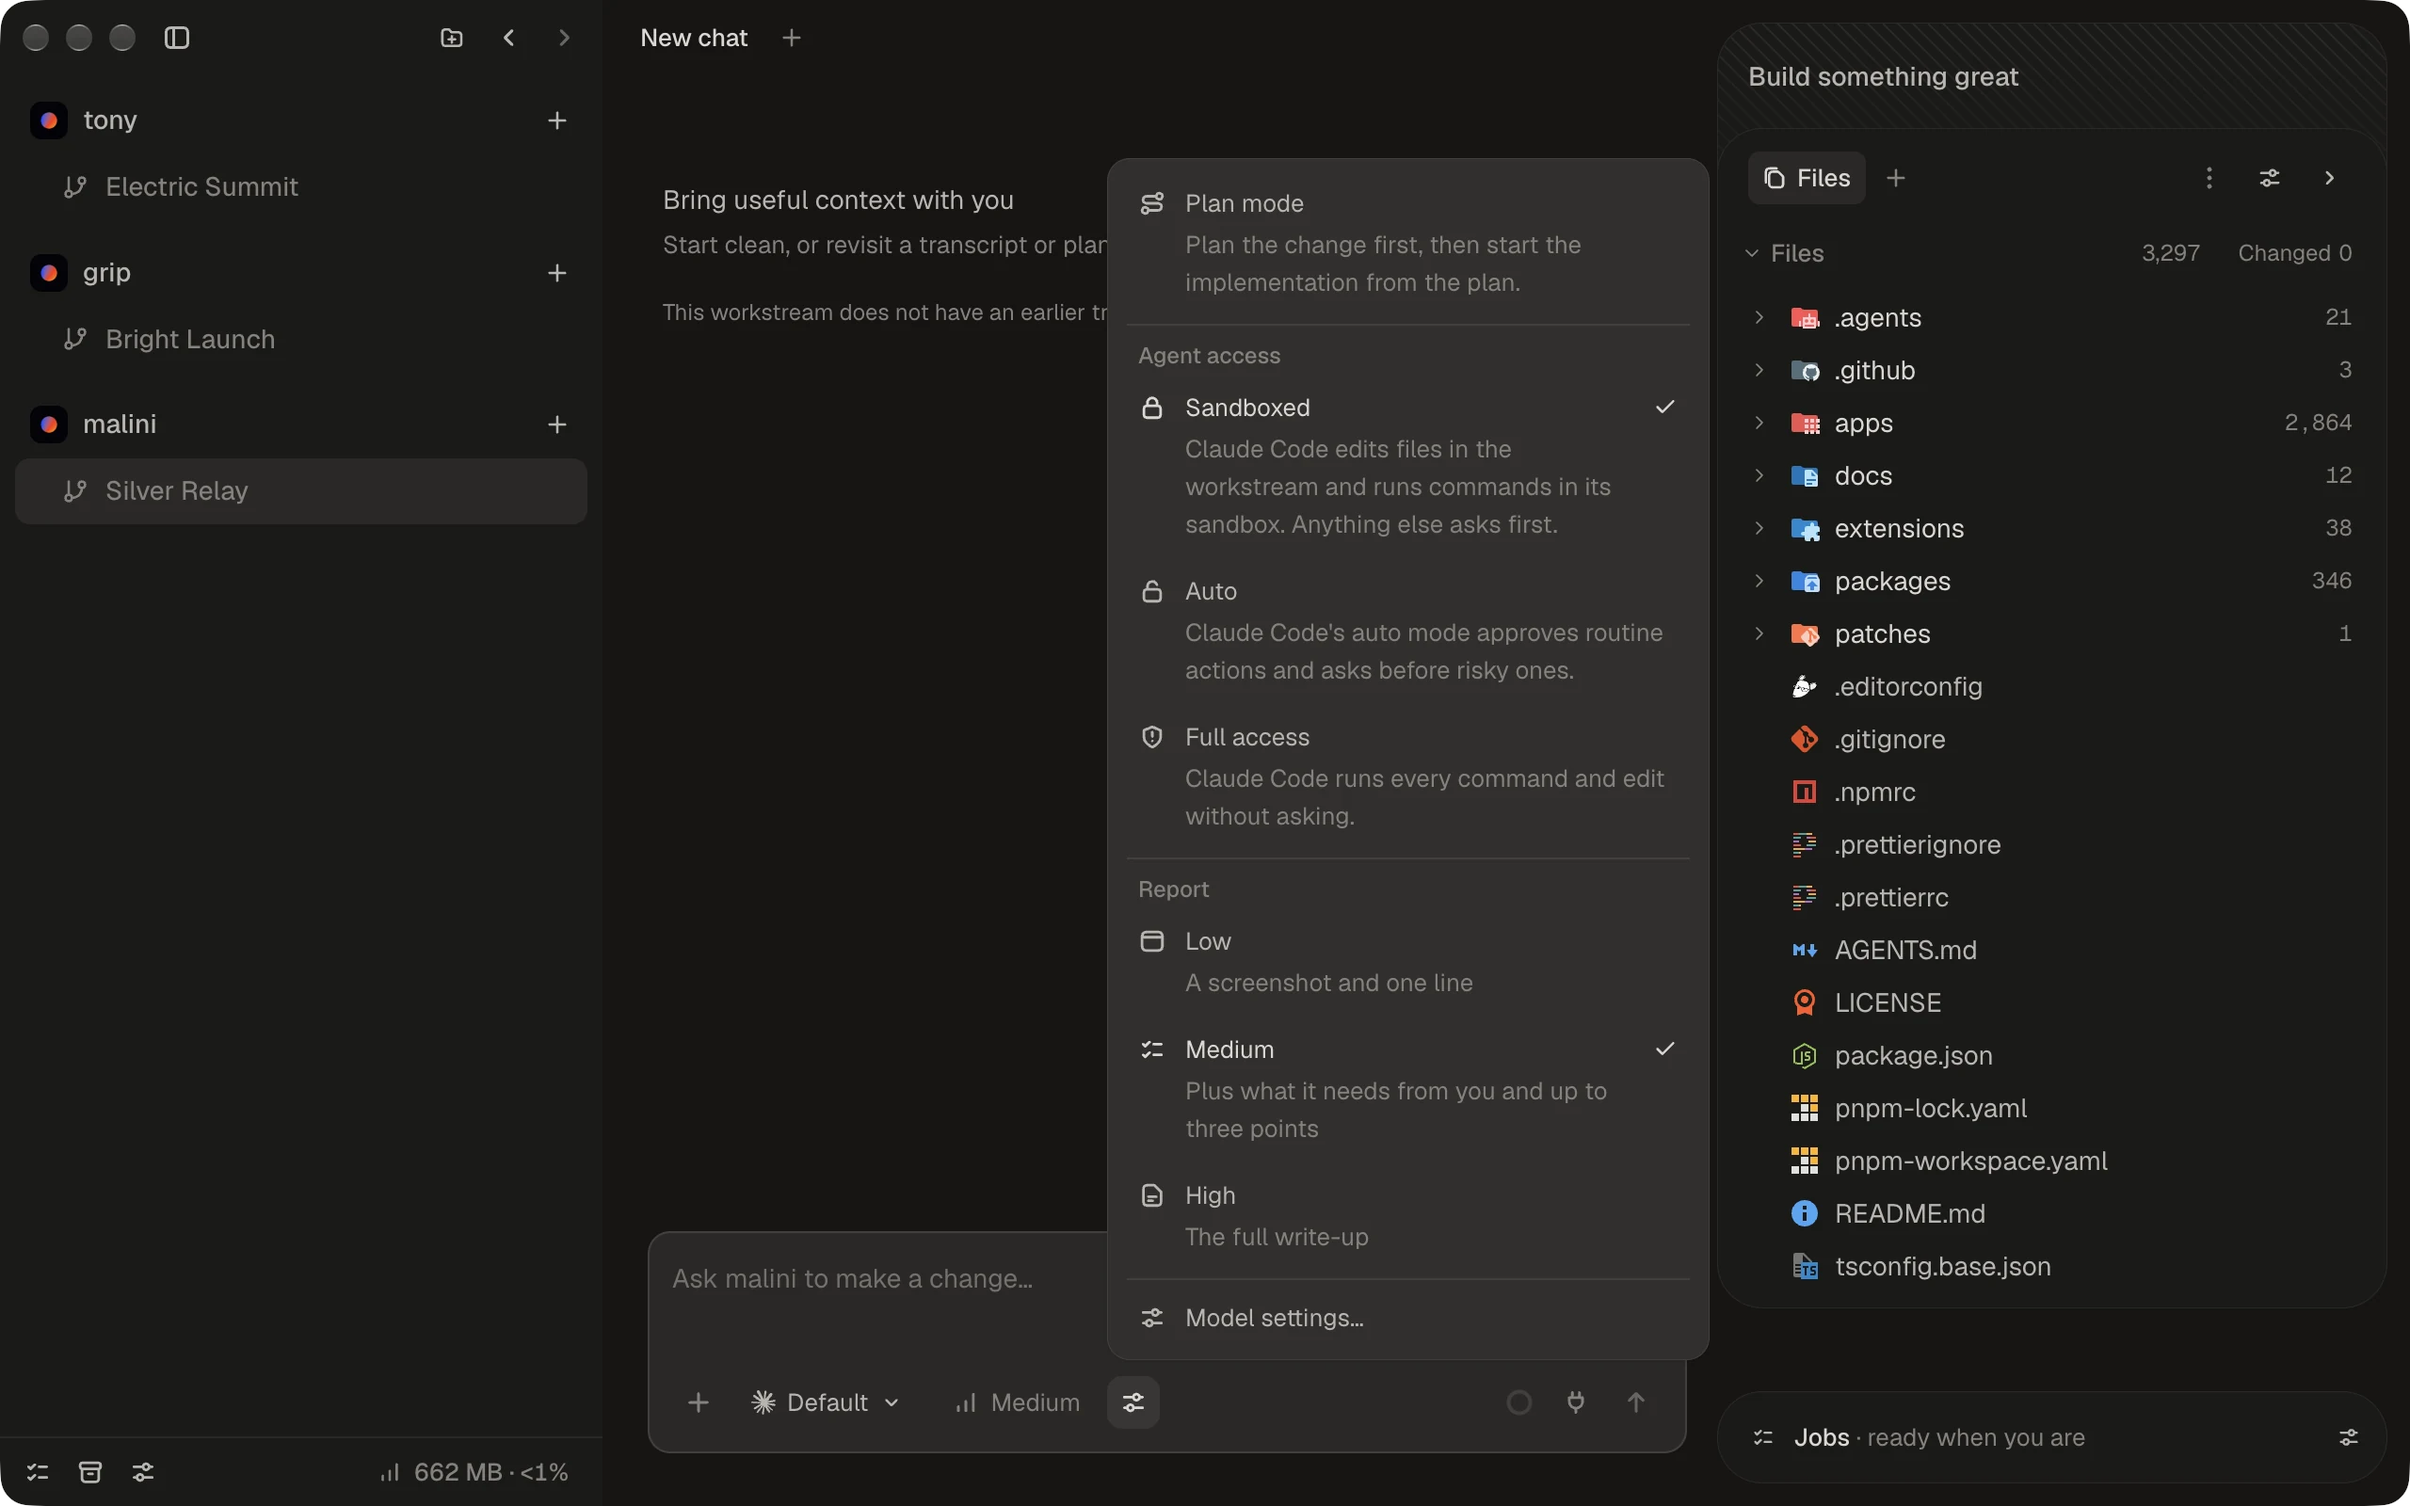
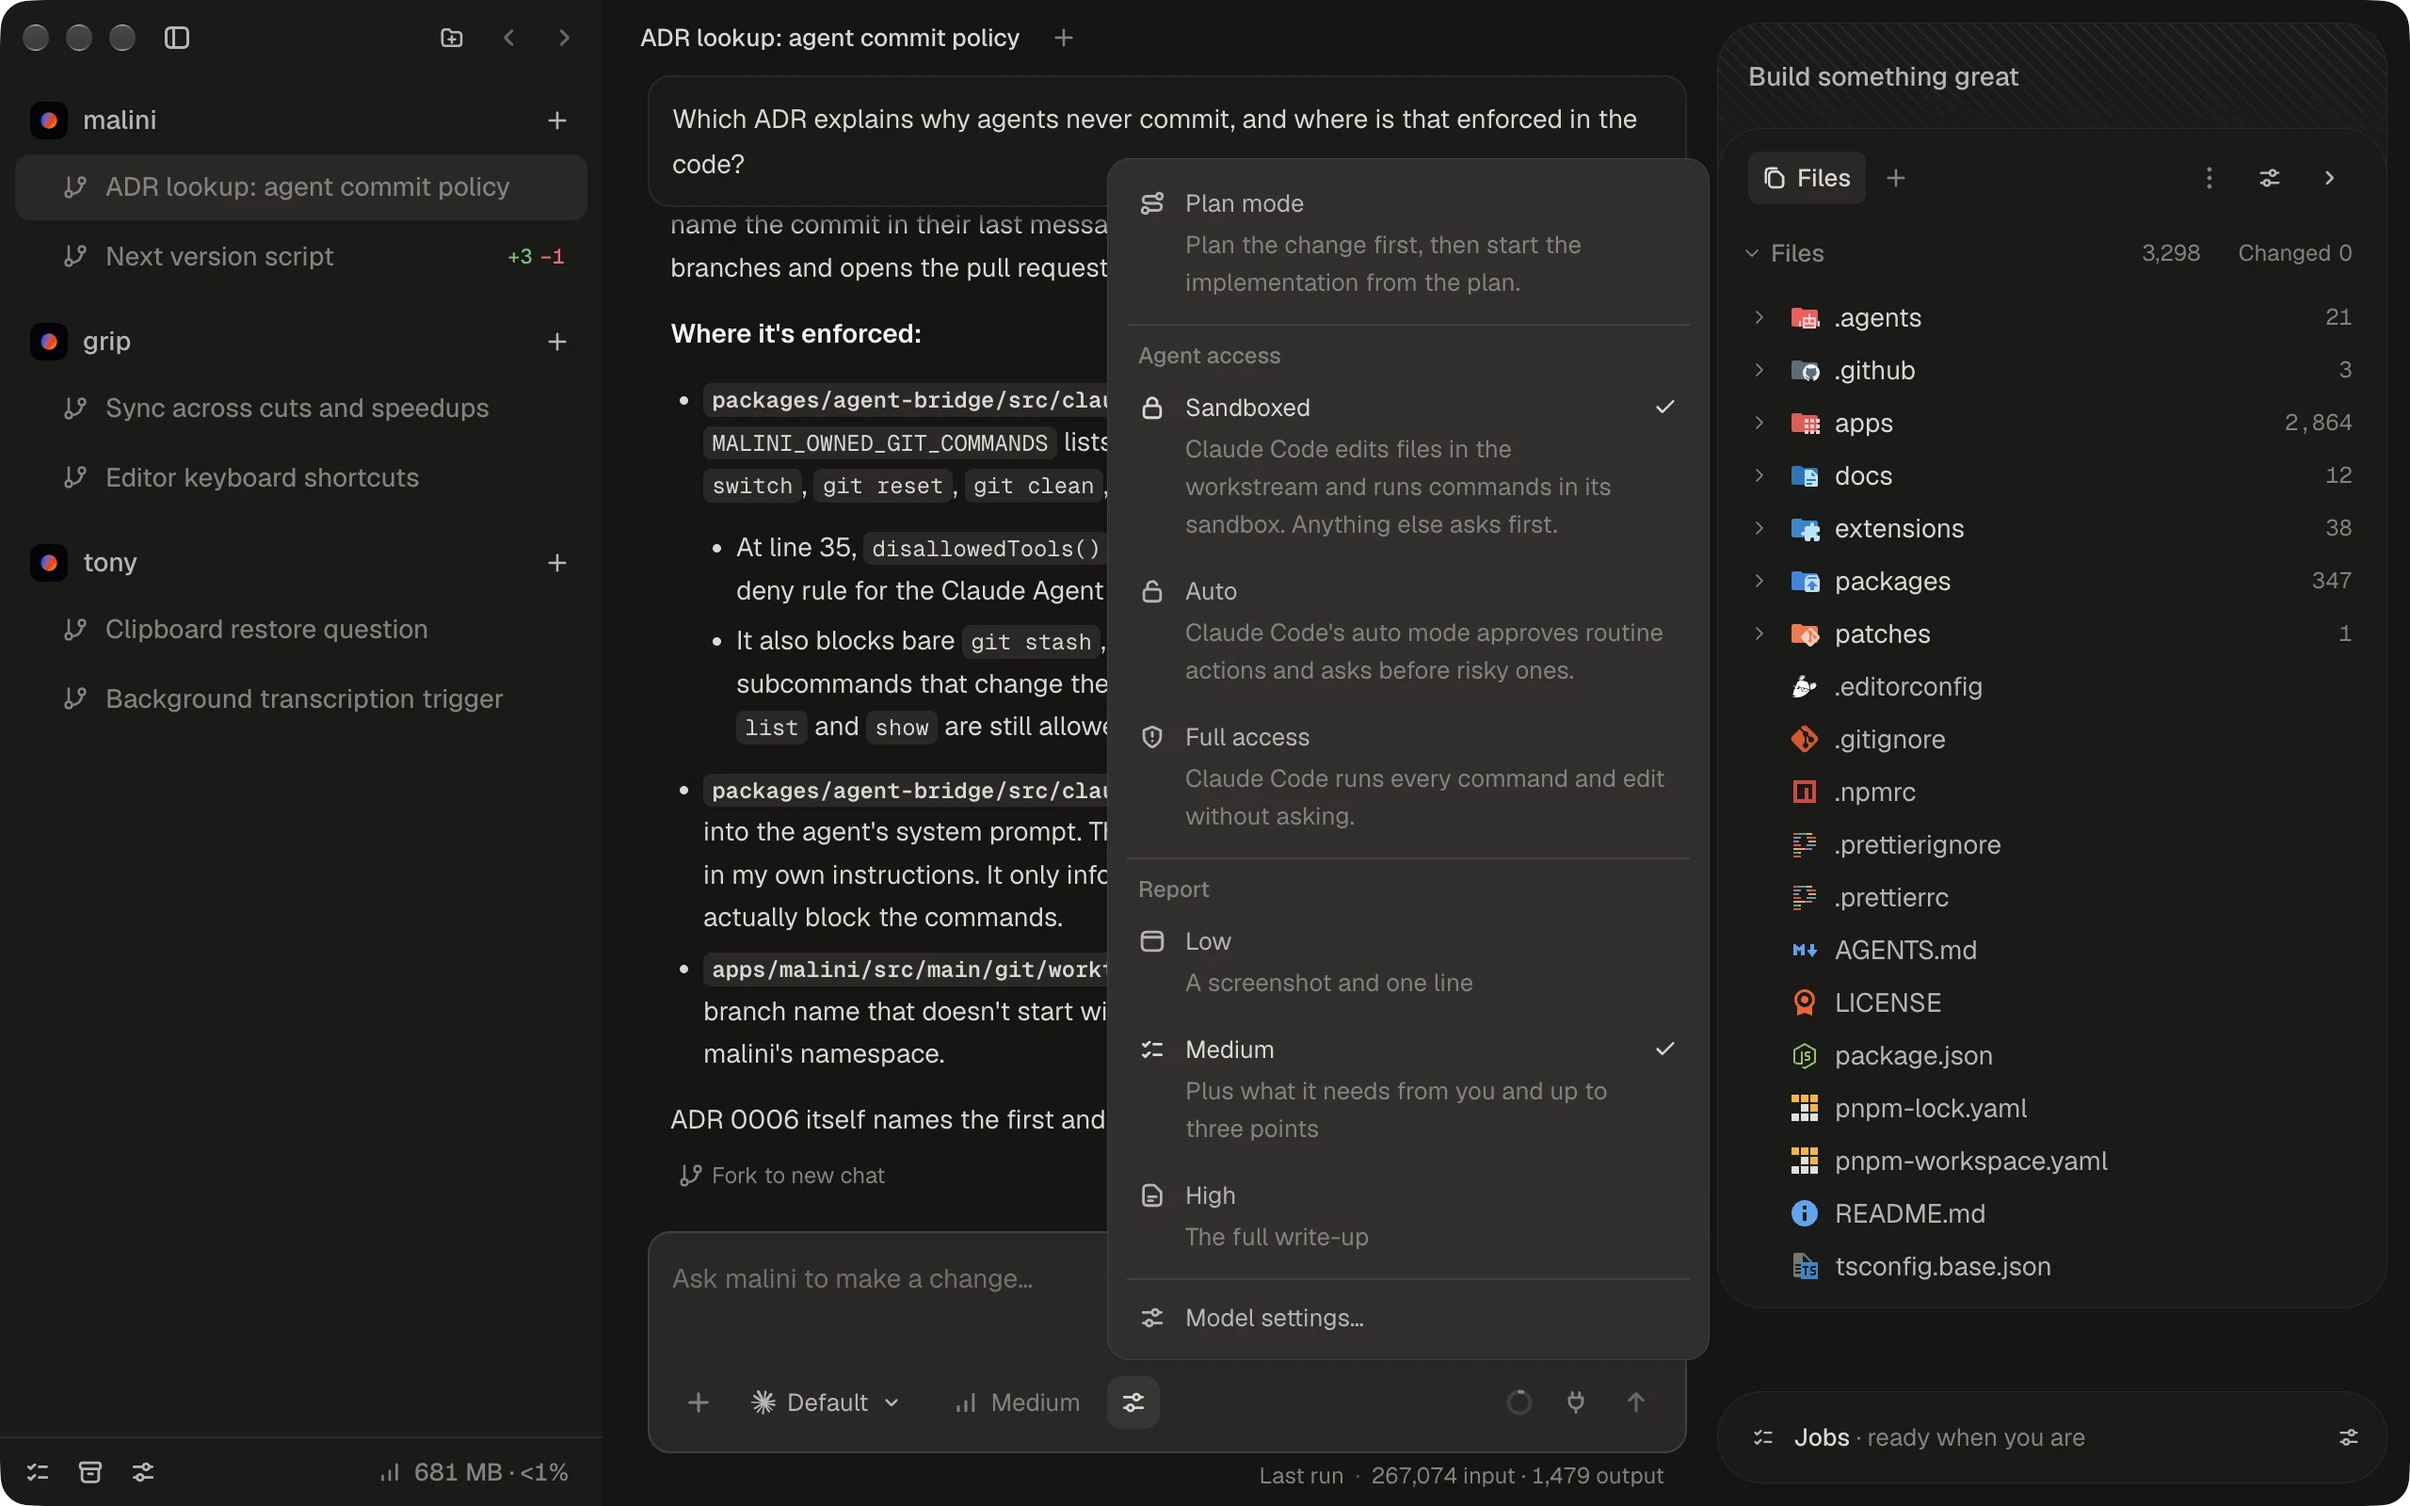
fix: block git -C commits, seed deps on connect, real README screenshots

diff --git a/packages/agent-bridge/src/claude/permissions.ts b/packages/agent-bridge/src/claude/permissions.ts
@@ -1,6 +1,7 @@
 import { realpathSync } from 'node:fs';
 import { basename, dirname, isAbsolute, join, relative, resolve } from 'node:path';
 import type {
+	HookCallback,
 	PermissionMode,
 	PermissionUpdate,
 	SandboxSettings,
@@ -31,6 +32,74 @@ export const MALINI_OWNED_GIT_COMMANDS = [
 ] as const;
 
 const STASH_WRITES = ['push', 'save', 'pop', 'apply', 'drop', 'clear', 'store', 'branch'];
+
+const OWNED_GIT_SUBCOMMANDS = new Set(
+	MALINI_OWNED_GIT_COMMANDS.filter((command) => command.startsWith('git ')).map((command) =>
+		command.slice('git '.length),
+	),
+);
+const GIT_OPTIONS_TAKING_A_VALUE = new Set([
+	'-C',
+	'-c',
+	'--git-dir',
+	'--work-tree',
+	'--namespace',
+	'--config-env',
+	'--exec-path',
+]);
+const COMMAND_PREFIXES = new Set(['env', 'command', 'exec', 'sudo', 'nohup', 'time']);
+const ENV_ASSIGNMENT = /^[A-Za-z_][A-Za-z0-9_]*=/u;
+
+export const refuseMaliniOwnedCommands: HookCallback = async (input) => {
+	if (input.hook_event_name !== 'PreToolUse' || !isRecord(input.tool_input)) return {};
+	const command = input.tool_input['command'];
+	const owned = typeof command === 'string' ? maliniOwnedCommand(command) : null;
+	if (owned === null) return {};
+	return {
+		hookSpecificOutput: {
+			hookEventName: 'PreToolUse',
+			permissionDecision: 'deny',
+			permissionDecisionReason: `malini runs \`${owned}\` itself: leave your changes in the working tree, and malini commits, pushes and opens the pull request.`,
+		},
+	};
+};
+
+// ponytail: splits on shell operators with naive quoting, not a shell parser; eval, aliases and scripts still pass. Parse a real shell grammar if agents reach for those.
+export function maliniOwnedCommand(command: string): string | null {
+	for (const segment of command.split(/&&|\|\||[;|&\n`(){}]/u)) {
+		const words = (segment.match(/"[^"]*"|'[^']*'|\S+/gu) ?? []).map((word) =>
+			word.replace(/^(["'])(.*)\1$/u, '$2'),
+		);
+		let at = 0;
+		while (at < words.length && isCommandPrefix(words[at] ?? '', at)) at += 1;
+		const program = basename(words[at] ?? '');
+		const args = words.slice(at + 1);
+		if (program === 'git') {
+			const owned = ownedGitSubcommand(args);
+			if (owned !== null) return owned;
+		}
+		if (program === 'gh' && args[0] === 'pr' && args[1] === 'create') return 'gh pr create';
+	}
+	return null;
+}
+
+function isCommandPrefix(word: string, at: number): boolean {
+	return (
+		ENV_ASSIGNMENT.test(word) || COMMAND_PREFIXES.has(word) || (at > 0 && word.startsWith('-'))
+	);
+}
+
+function ownedGitSubcommand(args: readonly string[]): string | null {
+	let at = 0;
+	while (args[at]?.startsWith('-')) at += GIT_OPTIONS_TAKING_A_VALUE.has(args[at] ?? '') ? 2 : 1;
+	const subcommand = args[at];
+	if (subcommand === undefined) return null;
+	if (OWNED_GIT_SUBCOMMANDS.has(subcommand)) return `git ${subcommand}`;
+	const stashAction = args[at + 1];
+	const writesStash =
+		stashAction === undefined || stashAction.startsWith('-') || STASH_WRITES.includes(stashAction);
+	return subcommand === 'stash' && writesStash ? 'git stash' : null;
+}
 
 export function disallowedTools(): string[] {
 	return [

diff --git a/packages/agent-bridge/src/claude/permissions.test.ts b/packages/agent-bridge/src/claude/permissions.test.ts
@@ -7,6 +7,7 @@ import {
 	claudeAnswers,
 	claudeQuestions,
 	disallowedTools,
+	maliniOwnedCommand,
 	permissionDescriptor,
 	permissionModeFor,
 	rememberedPermissions,
@@ -230,5 +231,23 @@ describe('AskUserQuestion mapping', () => {
 			'Which color do you prefer?': 'Blue',
 			'Which sizes?': '',
 		});
+	});
+});
+
+describe('maliniOwnedCommand', () => {
+	it('finds a malini-owned git command behind options, prefixes and other commands', () => {
+		expect(maliniOwnedCommand('git -C /tmp/repo commit --allow-empty -m probe')).toBe('git commit');
+		expect(maliniOwnedCommand('cd app && git push origin HEAD')).toBe('git push');
+		expect(maliniOwnedCommand('GIT_EDITOR=true git -c user.name=a rebase main')).toBe('git rebase');
+		expect(maliniOwnedCommand('env git stash')).toBe('git stash');
+		expect(maliniOwnedCommand('gh pr create --fill')).toBe('gh pr create');
+	});
+
+	it('leaves reads and quoted text alone', () => {
+		expect(maliniOwnedCommand('git -C /tmp/repo status --short')).toBeNull();
+		expect(maliniOwnedCommand('git log --oneline -5 | head')).toBeNull();
+		expect(maliniOwnedCommand('git stash list')).toBeNull();
+		expect(maliniOwnedCommand('echo "git commit"')).toBeNull();
+		expect(maliniOwnedCommand('gh pr view 12')).toBeNull();
 	});
 });

diff --git a/apps/malini/src/lib/shared/repositories/application/commands/connect-repository.command.ts b/apps/malini/src/lib/shared/repositories/application/commands/connect-repository.command.ts
@@ -26,6 +26,7 @@ import { workstreamsService } from '$shared/repositories/infrastructure/services
 import { repositoryConnectionStore } from '$shared/repositories/infrastructure/stores/repository-connection.store.svelte';
 import { goto } from '$shared/router/navigation';
 import { workstreamHref } from '$shared/router/routes-hrefs';
+import { seedWorkstreamDependenciesCommand } from './seed-workstream-dependencies.command';
 
 export { connectRepositoryCommand };
 
@@ -38,6 +39,7 @@ function connectRepositoryCommand(source: RepositoryImportSource, onConnected?: 
 	void (async () => {
 		try {
 			const workstream = await connectAndOpenWorkstream(source);
+			seedWorkstreamDependenciesCommand(workstream.id);
 			void repositoriesAggregate.refresh();
 			await goto(workstreamHref(workstream.id));
 			onConnected?.();

diff --git a/packages/agent-bridge/src/claude/titles.ts b/packages/agent-bridge/src/claude/titles.ts
@@ -6,7 +6,7 @@ import { claudeEnvironment } from './session.js';
 const TITLE_MODEL = 'haiku';
 const TITLE_TIMEOUT_MS = 15_000;
 const MAX_TASK_CHARACTERS = 4_000;
-const MAX_TITLE_WORDS = 4;
+const MAX_TITLE_WORDS = 5;
 const MAX_TITLE_CHARACTERS = 40;
 const TITLE_EDGE = /^["'`*_\s]+|["'`*_.!?,;:\s]+$/gu;
 
@@ -63,7 +63,11 @@ export async function suggestClaudeTitle(
 				throw new Error(`Claude Code could not name the task: ${message.subtype}`);
 			}
 			const title = cleanTitle(message.result);
-			if (title === null) throw new Error(`Claude Code replied with no usable title`);
+			if (title === null) {
+				throw new Error(
+					`Claude Code replied with no usable title: ${JSON.stringify(message.result)}`,
+				);
+			}
 			return title;
 		}
 		throw new Error('Claude Code stopped without naming the task');

diff --git a/packages/agent-bridge/src/claude/session.ts b/packages/agent-bridge/src/claude/session.ts
@@ -23,6 +23,7 @@ import {
 	claudeAnswers,
 	claudeQuestions,
 	disallowedTools,
+	refuseMaliniOwnedCommands,
 	permissionDescriptor,
 	permissionModeFor,
 	rememberedPermissions,
@@ -368,6 +369,7 @@ export class ClaudeSession implements ProviderHandle {
 			...(permissionMode === 'bypassPermissions' ? { allowDangerouslySkipPermissions: true } : {}),
 			sandbox: sandboxFor(profile),
 			disallowedTools: disallowedTools(),
+			hooks: { PreToolUse: [{ matcher: 'Bash', hooks: [refuseMaliniOwnedCommands] }] },
 			...maliniTools(this.#context.requestBrowser),
 			canUseTool: this.#canUseTool(),
 			...(model && model !== 'default' ? { model } : {}),

diff --git a/apps/malini/src/lib/shared/repositories/application/commands/connect-repository.command.test.ts b/apps/malini/src/lib/shared/repositories/application/commands/connect-repository.command.test.ts
@@ -96,6 +96,17 @@ describe('connecting a repository', () => {
 		expect(repositoryConnectErrorQuery.data).toBeNull();
 	});
 
+	it('installs the first workstream dependencies like every other new workstream', async () => {
+		connectRepositoryCommand(source);
+		await settled();
+
+		await vi.waitFor(() =>
+			expect(argsOf('repositories.provision-dependencies')).toEqual([
+				{ workstreamId: WORKSTREAM_ID },
+			]),
+		);
+	});
+
 	it('names the first workstream apart from a workstream that already has its generated name', async () => {
 		platform = createFakePlatform({
 			projects: [],

diff --git a/packages/agent-bridge/src/claude/titles.test.ts b/packages/agent-bridge/src/claude/titles.test.ts
@@ -6,6 +6,7 @@ describe('cleanTitle', () => {
 		expect(cleanTitle('Bundle versioning')).toBe('Bundle versioning');
 		expect(cleanTitle('"legal pages design."\n')).toBe('Legal pages design');
 		expect(cleanTitle('**Dark mode tokens**')).toBe('Dark mode tokens');
+		expect(cleanTitle('ADR lookup for agent commits')).toBe('ADR lookup for agent commits');
 	});
 
 	it('rejects a reply that is not a name', () => {

diff --git a/README.md b/README.md
@@ -23,7 +23,7 @@
 </p>
 
 <p align="center">
-  <img src=".github/readme/hero.webp" width="100%" alt="The malini window: tony, grip and malini in the sidebar, each with a workstream, a fresh chat with the composer in the middle, and the inspector on the right with the Files panel and a browser tab showing the malini repository on GitHub.">
+  <img src=".github/readme/hero.webp" width="100%" alt="The malini window: six workstreams across malini, grip and tony in the sidebar, a finished malini chat that read the code, edited package.json and docs/packaging.md, ran the new script, and ended with a commit subject and a pull request title, and 2 files changed with Draft and Merge in the top bar.">
 </p>
 
 <p align="center">
@@ -68,6 +68,7 @@ When the work is ready, malini commits it, opens the pull request, and helps it 
 | You come back to ten agents and can't tell which one needs you           | Every turn ends with a **Your turn** list, unread workstreams are marked, and a chime and a notification tell you a run finished.                |
 | The pull request sits red for hours                                      | The merge queue runs **Fix checks**, **Update from main**, and **Address bot review** until it merges, and says **Needs you** only when it must. |
 | The merge lands a commit nobody checked                                  | malini merges with `--match-head-commit`, so GitHub merges **exactly the commit that passed**.                                                   |
+| Quitting the app halfway through a run loses the work in flight          | Runs that a restart cut short **pick up where they left off** the next time malini opens.                                                        |
 
 ## Workstreams, side by side
 
@@ -81,10 +82,18 @@ When the work is ready, malini commits it, opens the pull request, and helps it 
 - **Your tools, one click away.** Open a workstream in your editor or reveal it in Finder.
 - **Any repository.** Clone one from GitHub, with your recent repositories one search away, or open a folder on your Mac.
 
+<p align="center">
+  <img src=".github/readme/answers.webp" width="100%" alt="A grip workstream answering how captions, zooms and keystrokes stay in sync after cuts and speed changes, with a file and line reference for each step, next to the other workstreams in the sidebar.">
+</p>
+
+<p align="center">
+  <sub>Ask about the code and get an answer with file references. Every workstream keeps its own chats.</sub>
+</p>
+
 ## A chat that keeps up
 
 <p align="center">
-  <img src=".github/readme/run-options.webp" width="100%" alt="The Run options menu over the composer: Plan mode, Agent access with Sandboxed checked, Auto, and Full access, Report with Low, Medium checked, and High, and Model settings.">
+  <img src=".github/readme/run-options.webp" width="100%" alt="The Run options menu open over a chat: Plan mode, Agent access with Sandboxed checked, Auto, and Full access, Report with Low, Medium checked, and High, and Model settings.">
 </p>
 
 <p align="center">
